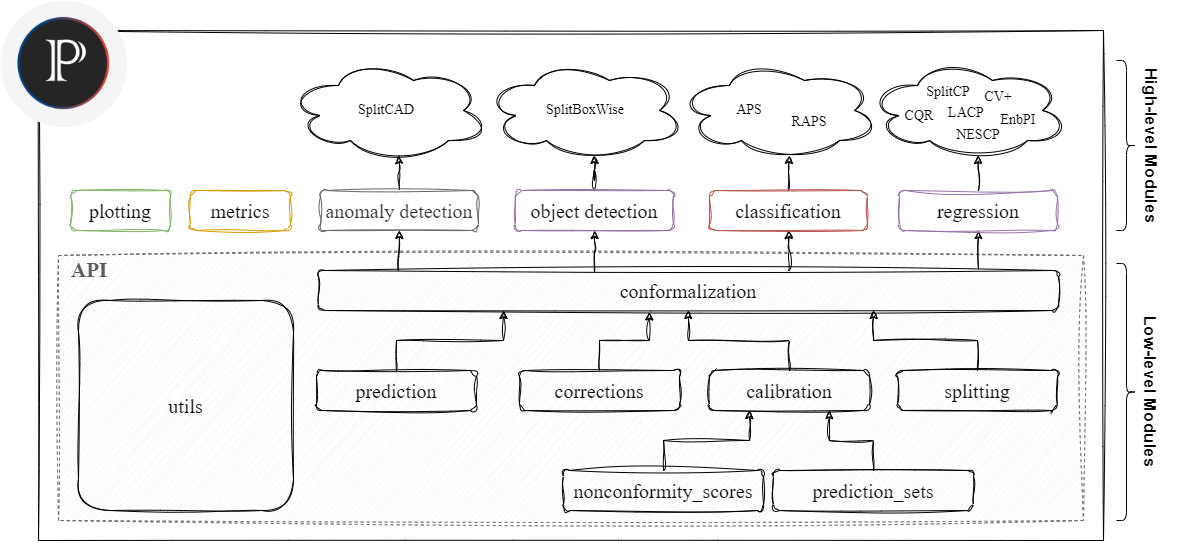
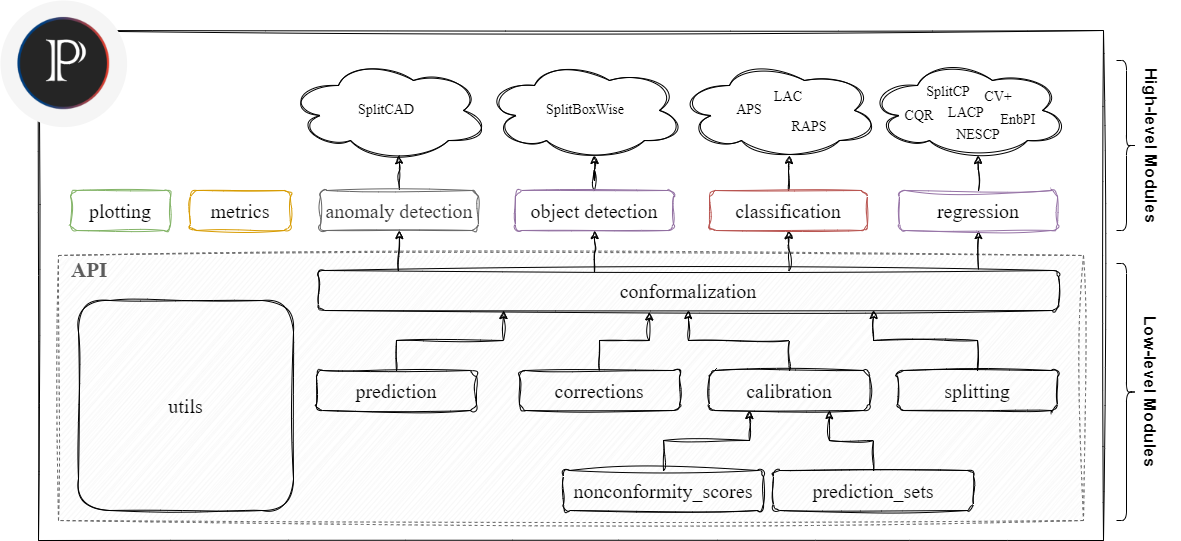
doc: add theory overview of CAD and update readme to include implemented CP methods

diff --git a/deel/puncc/classification.py b/deel/puncc/classification.py
@@ -49,7 +49,7 @@ class LAC(SplitCP):
     :param BasePredictor predictor: a predictor implementing fit and predict.
     :param bool train: if False, prediction model(s) will not be trained and
         will be used as is. Defaults to True.
-    
+
     .. _example lac:
 
     Example::
@@ -110,7 +110,7 @@ class LAC(SplitCP):
         lac_cp.fit(X_fit=X_fit, y_fit=y_fit, X_calib=X_calib, y_calib=y_calib)
 
 
-        # The predict method infers prediction intervals with respect to
+        # The predict method infers prediction sets with respect to
         # the significance level alpha = 20%
         y_pred, set_pred = lac_cp.predict(X_test, alpha=.2)
 
@@ -146,7 +146,7 @@ class LAC(SplitCP):
         )
 
     def predict(self, X_test: Iterable, alpha: float) -> Tuple:
-        """Conformal interval predictions (w.r.t target miscoverage alpha)
+        """Conformal set predictions (w.r.t target miscoverage alpha)
         for new samples.
 
         :param Iterable X_test: features of new samples.
@@ -255,7 +255,7 @@ class RAPS:
         raps_cp.fit(X_fit=X_fit, y_fit=y_fit, X_calib=X_calib, y_calib=y_calib)
 
 
-        # The predict method infers prediction intervals with respect to
+        # The predict method infers prediction sets with respect to
         # the significance level alpha = 20%
         y_pred, set_pred = raps_cp.predict(X_test, alpha=.2)
 
@@ -379,7 +379,7 @@ class RAPS:
         self.conformal_predictor.fit(X=X, y=y, **kwargs)
 
     def predict(self, X_test: Iterable, alpha: float) -> Tuple:
-        """Conformal interval predictions (w.r.t target miscoverage alpha)
+        """Conformal set predictions (w.r.t target miscoverage alpha)
         for new samples.
 
         :param Iterable X_test: features of new samples.
@@ -471,7 +471,7 @@ class APS(RAPS):
         # scores on the calibration set
         aps_cp.(X_fit=X_fit, y_fit=y_fit, X_calib=X_calib, y_calib=y_calib)
 
-        # The predict method infers prediction intervals with respect to
+        # The predict method infers prediction sets with respect to
         # the significance level alpha = 20%
         y_pred, set_pred = aps_cp.predict(X_test, alpha=.2)
 

diff --git a/docs/source/conf.py b/docs/source/conf.py
@@ -26,7 +26,7 @@ copyright = (
 author = "Mouhcine Mendil, Luca Mossina and Joseba Dalmau"
 
 # The full version, including alpha/beta/rc tags
-release = "0.7.8"
+release = "0.8.0"
 
 
 # -- General configuration ---------------------------------------------------

diff --git a/setup.py b/setup.py
@@ -61,7 +61,7 @@ dev_requirements = [
 
 setuptools.setup(
     name="puncc",
-    version="0.7.8",
+    version="0.8.0",
     author=", ".join(["Mouhcine Mendil", "Luca Mossina", "Joseba Dalmau"]),
     author_email=", ".join(
         [

diff --git a/docs/source/theory_overview.rst b/docs/source/theory_overview.rst
@@ -232,7 +232,7 @@ for time series data of the form
 :math:`Y_t = f(X_t) + \epsilon_t`, 
 where :math:`\epsilon_t` are identically distributed, 
 but not necessarily independent. 
-Given a training data set :math:`D=\lbrace (X_i, Y_i) \rbrace_{i=1}^n` 
+Given a training dataset :math:`D=\lbrace (X_i, Y_i) \rbrace_{i=1}^n` 
 and a test set :math:`D_{test} = \lbrace (X_t,Y_t) \rbrace_{t=n+1}^{n_{test}}`, 
 the EnbPI algorithm aims at constructing prediction sets 
 for each test point :math:`X_t`. 
@@ -247,12 +247,12 @@ e.g. via a simple average, a bagging or an ensembling method.
 The algorithm EnbPI is performed in three stages:
 
 **Training**
-    #. Sample :math:`B` bootstrap data sets :math:`S_b`, for :math:`b=1,\dots, B` with replacement from :math:`D`.
+    #. Sample :math:`B` bootstrap datasets :math:`S_b`, for :math:`b=1,\dots, B` with replacement from :math:`D`.
     #. Train :math:`B` bootstrap models :math:`\widehat{f}^b = \mathcal{A}(S_b)`.
 
 **Calibration**
     #. Compute the predictions on each training sample :math:`X_i\in D`. Only the models :math:`\widehat{f}^b` where :math:`X_i\not\in S_b` are used in the aggregation: :math:`\widehat{f}_{-i}(X_i):=\phi\big( \lbrace \widehat{f}^b(X_i) | X_i\not\in S_b\rbrace\big)`.
-    #. Compute the errors :math:`R_i=|Y_i-\widehat{f}_{-i}(X_i)|`, and stock them as :math:`\mathcal{R}_1:=\lbrace R_i,i=1,\dots, n\rbrace`.
+    #. Compute the errors :math:`R_i=|Y_i-\widehat{f}_{-i}(X_i)|`, and store them as :math:`\mathcal{R}_1:=\lbrace R_i,i=1,\dots, n\rbrace`.
 
 **Inference**
     #. Compute the predictions on each test sample :math:`X_t\in D_{test}` by setting :math:`\widehat{f}_{-t}(X_t):=  \frac{1}{T}\sum_{i=1}^T \widehat{f}_{-i}(X_t)`.
@@ -312,12 +312,12 @@ Conformal Classification
 
 
 Least Ambiguous Set-Valued Classifiers (LAC)
-*******************************************
+********************************************
 .. _theory lac:
 
 As for the Split Conformal Regression algorithm, 
 the LAC algorithm introduced in [Sadinle2018]_ 
-requires us to split the data set :math:`D` into a proper training set :math:`D_{train}` 
+requires us to split the dataset :math:`D` into a proper training set :math:`D_{train}` 
 and an independent calibration set :math:`D_{calib}`. 
 A classifier :math:`\widehat{\pi}` is trained 
 using the proper training set :math:`D_{train}` only. 
@@ -331,11 +331,11 @@ In order to construct the prediction sets :math:`\widehat{C}_\alpha`,
 the LAC algorithm works in two stages:
 
 **Calibration**
-    #. For each example :math:`X_i` in the calibration data set, compute the error :math:`R_i=1-\widehat{\pi}_{Y_i}(X_i)`, i.e. 1 minus the sofmax output of the ground truth class.
-    #. Stock all errors in a vector :math:`\mathcal{R}`.
+    #. For each example :math:`X_i` in the calibration dataset, compute the error :math:`R_i=1-\widehat{\pi}_{Y_i}(X_i)`, i.e. 1 minus the sofmax output of the ground truth class.
+    #. store all errors in a vector :math:`\mathcal{R}`.
 
 **Inference**
-    #. Compute the error margin :math:`\delta_{\alpha}` as the :math:`(1-\alpha)(1 + 1/n_{calib})`-th empirical quantile of :math:`\mathcal{R}`.
+    #. Compute the probability threshold :math:`\delta_{\alpha}` as the :math:`(1-\alpha)(1 + 1/n_{calib})`-th empirical quantile of :math:`\mathcal{R}`.
     #. The prediction set for a test point :math:`X_{new}` is defined as
     
     .. math::
@@ -358,11 +358,11 @@ In order to construct the prediction sets :math:`\widehat{C}_\alpha`,
 the APS algorithm works in two stages:
 
 **Calibration**
-    #. For each example :math:`X_i` in the calibration data set, we compute the error :math:`R_i` as the probability mass needed for reaching the true label :math:`Y_i`, i.e. :math:`R_i=\widehat{\pi}_{(1)}+\cdots+\widehat{\pi}_{(k)}`, wehere :math:`(k)=Y_i`.
-    #. Stock all errors in a vector :math:`\mathcal{R}`.
+    #. For each example :math:`X_i` in the calibration dataset, we compute the error :math:`R_i` as the probability mass needed for reaching the true label :math:`Y_i`, i.e. :math:`R_i=\widehat{\pi}_{(1)}+\cdots+\widehat{\pi}_{(k)}`, wehere :math:`(k)=Y_i`.
+    #. Store all errors in a vector :math:`\mathcal{R}`.
 
 **Inference**
-    #. Compute the error margin :math:`\delta_{\alpha}` as the :math:`(1-\alpha)(1 + 1/n_{calib})`-th empirical quantile of :math:`\mathcal{R}`.
+    #. Compute the probability threshold :math:`\delta_{\alpha}` as the :math:`(1-\alpha)(1 + 1/n_{calib})`-th empirical quantile of :math:`\mathcal{R}`.
     #. The prediction set for a test point :math:`X_{new}` is defined as
     
     .. math::
@@ -385,7 +385,7 @@ Employing the same notations as for the APS algorithm above,
 the RAPS algorithm works in two stages:
 
 **Calibration**
-    #. For each example :math:`X_i` in the calibration data set, we compute the error :math:`R_i` as the probability mass needed for reaching the true label :math:`Y_i`, i.e. 
+    #. For each example :math:`X_i` in the calibration dataset, we compute the error :math:`R_i` as the probability mass needed for reaching the true label :math:`Y_i`, i.e. 
     
         .. math::
         
@@ -393,10 +393,10 @@ the RAPS algorithm works in two stages:
     
         where :math:`(k)=Y_i`. The regularization term :math:`\lambda(k-k_{reg}+1)` is added to the APS error, where :math:`\lambda` and :math:`k_{reg}` are hyperparameters.
     
-    #. Stock all errors in a vector :math:`\mathcal{R}`.
+    #. Store all errors in a vector :math:`\mathcal{R}`.
 
 **Inference**
-    #. Compute the error margin :math:`\delta_{\alpha}` as the :math:`(1-\alpha)(1 + 1/n_{calib})`-th empirical quantile of :math:`\mathcal{R}`.
+    #. Compute the probability thresholdn :math:`\delta_{\alpha}` as the :math:`(1-\alpha)(1 + 1/n_{calib})`-th empirical quantile of :math:`\mathcal{R}`.
     #. The prediction set for a test point :math:`X_{new}` is defined as :math:`\widehat{C}_{\alpha}(X_{new})=\big\lbrace (1),\dots,(k)\big\rbrace`, where
     
         .. math::
@@ -406,8 +406,31 @@ the RAPS algorithm works in two stages:
 
 Conformal Anomaly Detection
 ---------------------------
+.. _theory cad:
 
-TBC
+Conformal prediction can be extended to handle unsupervised anomaly detection, allowing us to identify data points that do not conform to the "normal" (or nominal) distribution of a dataset [Laxhammar2015]_. The goal is to assign a statistical guarantee to the anomaly detector, ensuring that it controls the **false positive rate**.
+
+To detect anomalies, we start with a model that assigns an anomaly score :math:`s(X)` to each data point. Higher scores indicate a higher likelihood of being an outlier.
+
+**Calibration**
+
+    #. For each example :math:`X_i` in the calibration dataset, we compute the nonconformity score as the anomaly score provided by the model, i.e. :math:`R_i = s(X_i)`. 
+    #. Store all nonconformity scores in a vector :math:`\mathcal{R}`.
+
+**Inference**
+
+    #. Compute the anomaly score threshold :math:`\delta_{\alpha}` as the :math:`(1-\alpha)(1 + 1/n_{calib})`-th empirical quantile of :math:`\mathcal{R}`.
+    #. For a new test point :math:`X_{new}`, the conformalized anomaly detector classifies it as:
+
+        .. math::
+
+            \widehat{C}_{\alpha} = \begin{cases} 
+            \text{Normal} & \text{if } s(X_{new}) \leq \delta_{\alpha} \\
+            \text{Anomaly} & \text{if } s(X_{new}) > \delta_{\alpha}
+            \end{cases}
+    
+Conformal anomaly detection provides an error control guarantee, meaning that under the assumption of exchangeability, the probability of a false positive (labeling a norminal instance as an anomaly) is bounded by :math:`\alpha`.
+
 
 Conformal Object Detection
 --------------------------
@@ -423,6 +446,7 @@ References
 .. [Angelopoulos2021] Angelopoulos, A. N., Bates, S., Jordan, M., & Malik, J (2021). Uncertainty Sets for Image Classifiers using Conformal Prediction. In Proceedings of ICLR 2021. https://openreview.net/forum?id=eNdiU_DbM9
 .. [Angelopoulos2022] Angelopoulos, A.N. and Bates, S., (2021). A gentle introduction to conformal prediction and distribution-free uncertainty quantification. arXiv preprint arXiv:2107.07511. https://arxiv.org/abs/2107.07511
 .. [Barber2021] Barber, R. F., Candes, E. J., Ramdas, A., & Tibshirani, R. J. (2021). Predictive inference with the jackknife+. Ann. Statist. 49 (1) 486 - 507, February 2021. https://arxiv.org/abs/1905.02928
+.. [Laxhammar2015] Laxhammar, R., & Falkman, G. (2015). Inductive conformal anomaly detection for sequential detection of anomalous sub-trajectories. Annals of Mathematics and Artificial Intelligence, 74, 67-94
 .. [Lei2018] Lei, J., G'Sell, M., Rinaldo, A., Tibshirani, R.J. and Wasserman, L., (2018). Distribution-free predictive inference for regression. Journal of the American Statistical Association, 113(523), pp.1094-1111. https://arxiv.org/abs/1604.04173
 .. [Papadopoulos2002] Papadopoulos, H., Proedrou, K., Vovk, V. and Gammerman, A., (2002). Inductive confidence machines for regression. In Proceedings of ECML 2002, Springer. https://link.springer.com/chapter/10.1007/3-540-36755-1_29
 .. [Papadopoulos2008] Papadopoulos, H., Gammerman, A. and Vovk, V., (2008). Normalized nonconformity measures for regression conformal prediction. In Proceedings of the IASTED International Conference on Artificial Intelligence and Applications (AIA 2008) (pp. 64-69).

diff --git a/README.md b/README.md
@@ -123,7 +123,7 @@ y_pred, y_pred_lower, y_pred_upper = split_cp.predict(X_test, alpha=0.1)
 ```
 
 
-The library provides several metrics (`deel.puncc.metrics`) and plotting capabilities (`deel.puncc.plotting`) to evaluate and visualize the results of a conformal procedure. For a target error rate of $\alpha = 0.1$, the marginal coverage reached in this example on the test set is higher than $90$% (see [Introduction tutorial](docs/puncc_intro.ipynb)):
+The library provides several metrics (`deel.puncc.metrics`) and plotting capabilities (`deel.puncc.plotting`) to evaluate and visualize the results of a conformal procedure. For a target error rate of $\alpha = 0.1$, the marginal coverage reached in this example on the test set is higher than $90$% (see [**Introduction tutorial**](docs/puncc_intro.ipynb)):
 <div align="center">
 <figure style="text-align:center">
 <img src="docs/assets/results_quickstart_split_cp_pi.png" alt="90% Prediction Interval with the Split Conformal Prediction Method" width="70%"/>
@@ -138,7 +138,31 @@ The library provides several metrics (`deel.puncc.metrics`) and plotting capabil
 - A direct approach to run state-of-the-art conformal prediction procedures. This is what we used in the previous conformal regression example.
 - **Low-level API**: a more flexible approach based of full customization of the prediction model, the choice of nonconformity scores and the split between fit and calibration datasets.
 
-A quick comparison of both approaches is provided in the [API tutorial](docs/api_intro.ipynb) for a regression problem.
+A quick comparison of both approaches is provided in the [**API tutorial**](docs/api_intro.ipynb) for a regression problem.
+
+<figure style="text-align:center">
+    <img src="docs/assets/puncc_architecture.png" width="70%"/>
+</figure>
+
+### 🖥 Implemented Algorithms
+<details>
+  <summary>Overview of Implemented Methods from the Literature:</summary>
+
+| Procedure Type                          | Procedure Name                                        | Description (more details in [Theory overview](https://deel-ai.github.io/puncc/theory_overview.html))                |
+|-----------------------------------------|------------------------------------------------------|-------------------------------------------------------|
+| Conformal Regression                    | [`deel.puncc.regression.SplitCP`](https://deel-ai.github.io/puncc/regression.html#deel.puncc.regression.SplitCP)                      | Split Conformal Regression                            |
+| Conformal Regression                    | [`deel.puncc.regression.LocallyAdaptiveCP`](https://deel-ai.github.io/puncc/regression.html#deel.puncc.regression.LocallyAdaptiveCP)            | Locally Adaptive Conformal Regression                 |
+| Conformal Regression                    | [`deel.puncc.regression.CQR`](https://deel-ai.github.io/puncc/regression.html#deel.puncc.regression.CQR)                         | Conformalized Quantile Regression                     |
+| Conformal Regression                    | [`deel.puncc.regression.CvPlus`](https://deel-ai.github.io/puncc/regression.html#deel.puncc.regression.CVPlus)                       | CV + (cross-validation)                               |
+| Conformal Regression                    | [`deel.puncc.regression.EnbPI`](https://deel-ai.github.io/puncc/regression.html#deel.puncc.regression.EnbPI)                        | Ensemble Batch Prediction Intervals method            |
+| Conformal Regression                    | [`deel.puncc.regression.aEnbPI`](https://deel-ai.github.io/puncc/regression.html#deel.puncc.regression.AdaptiveEnbPI)                       | Locally adaptive Ensemble Batch Prediction Intervals method |
+| Conformal Classification                | [`deel.puncc.classification.LAC`](https://deel-ai.github.io/puncc/classification.html#deel.puncc.classification.LAC)                      | Least Ambiguous Set-Valued Classifiers                |
+| Conformal Classification                | [`deel.puncc.classification.APS`](https://deel-ai.github.io/puncc/classification.html#deel.puncc.classification.APS)                      | Adaptive Prediction Sets                              |
+| Conformal Classification                | [`deel.puncc.classification.RAPS`](https://deel-ai.github.io/puncc/classification.html#deel.puncc.classification.RAPS)                     | Regularized Adaptive Prediction Sets (APS is a special case where $\lambda = 0$) |
+| Conformal Anomaly Detection             | [`deel.puncc.anomaly_detection.SplitCAD`](https://deel-ai.github.io/puncc/anomaly_detection.html#deel.puncc.anomaly_detection.SplitCAD)              | Split Conformal Anomaly detection (used to control the maximum false positive rate) |
+| Conformal Object Detection              | [`deel.puncc.object_detection.SplitBoxWise`](https://deel-ai.github.io/puncc/object_detection.html#deel.puncc.object_detection.SplitBoxWise)           | Box-wise split conformal object detection             |
+
+</details>
 
 ## 📚 Citation
 

diff --git a/docs/source/classification.rst b/docs/source/classification.rst
@@ -12,6 +12,8 @@ and :func:`predict` methods.
 :doc:`Prediction module <prediction>` from the :doc:`API <api>` ensures the
 compliance of models from various ML/DL libraries (such as Keras and scikit-learn) to **puncc**.
 
+.. autoclass:: deel.puncc.classification.LAC
+
 .. autoclass:: deel.puncc.classification.RAPS
 
 .. autoclass:: deel.puncc.classification.APS
